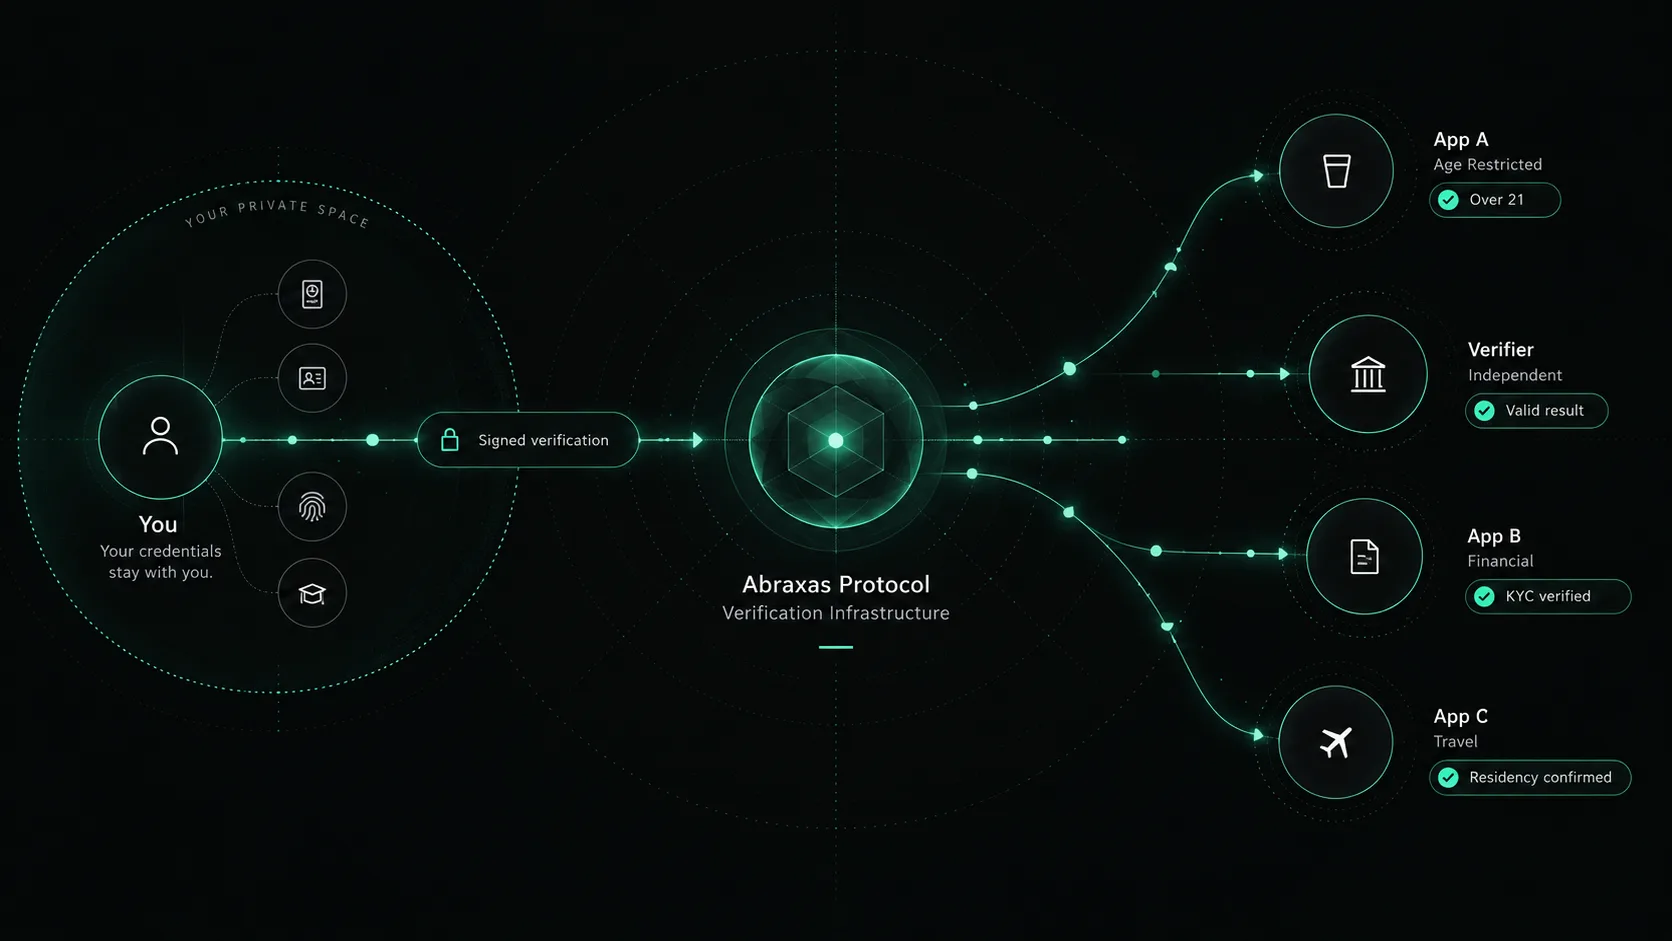
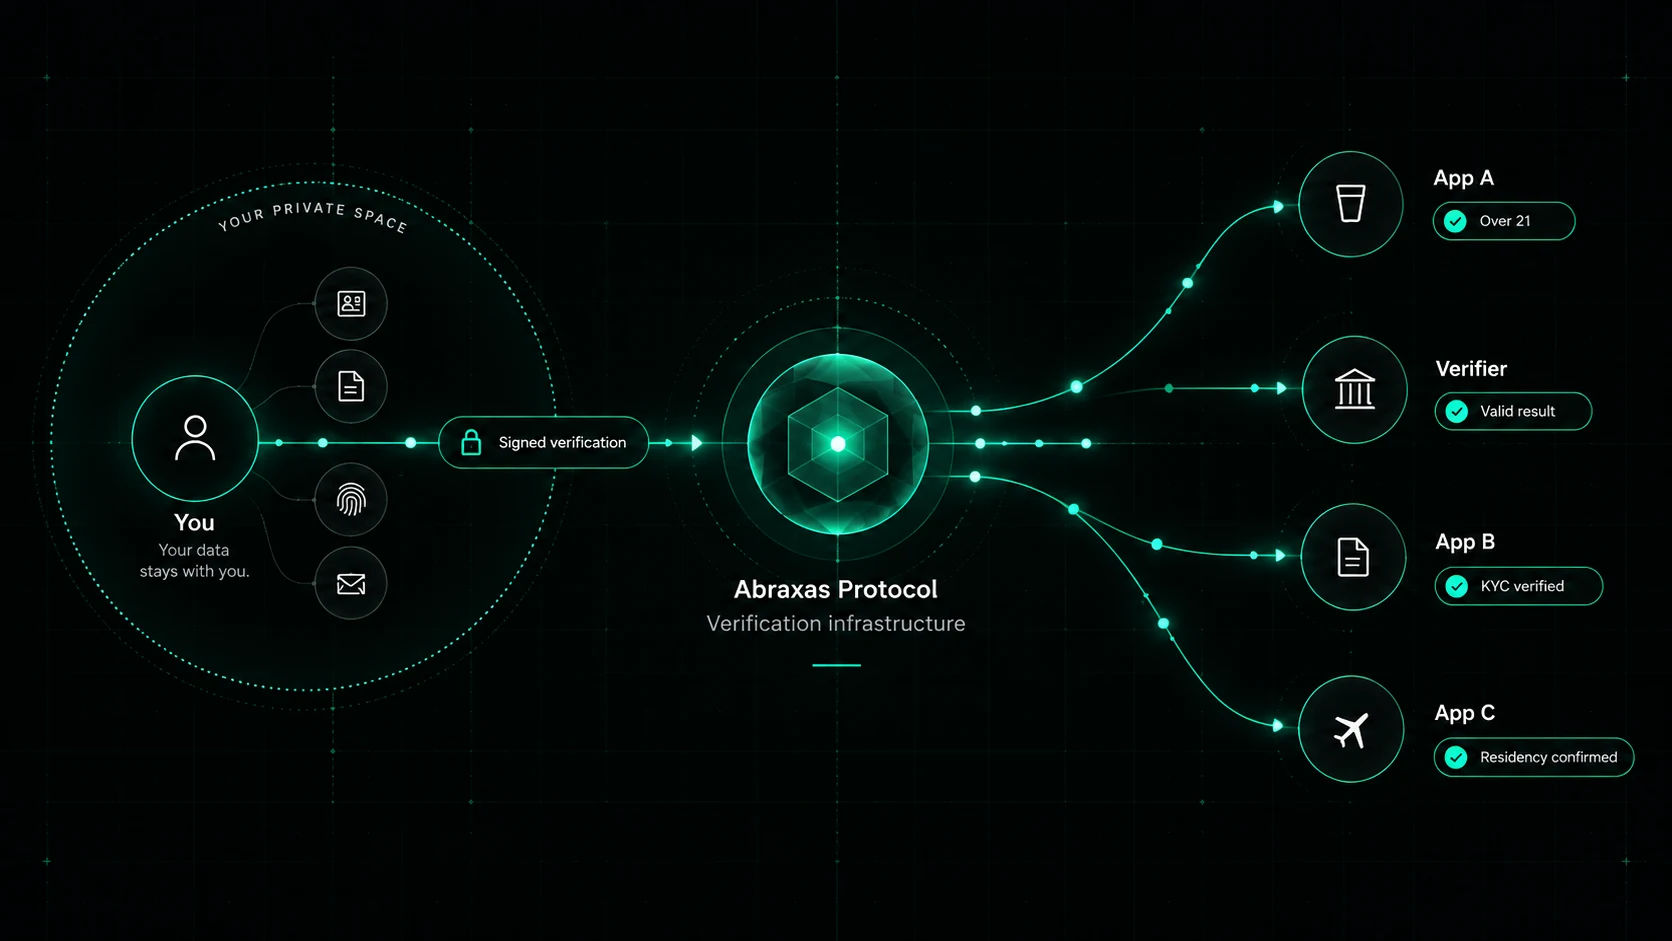
fix(home): deploy premium protocol visuals on homepage preview
Replace stale diagram webps with approved reference art, wire lifecycle
exhibit to reference asset with interactive stage stepper, eager-load homepage
sections, and remove deferred dynamic imports that hid visuals on preview.

diff --git a/components/protocol-visuals/VerificationLifecycleTrustBoundary.tsx b/components/protocol-visuals/VerificationLifecycleTrustBoundary.tsx
@@ -3,6 +3,8 @@
 import { useCallback, useState, type CSSProperties } from "react";
 import { useReducedMotion } from "framer-motion";
 import { CINEMATIC_VPR_SIM_LABEL } from "@/lib/home/cinematicHomeCopy";
+import { HOMEPAGE_PROTOCOL_VISUAL_ASSETS } from "@/lib/home/homepageProtocolVisualAssets";
+import { ProtocolDiagramFigure } from "./ProtocolDiagramFigure";
 
 type StageId = "provide" | "evaluate" | "decision" | "verify";
 
@@ -48,23 +50,6 @@ const STAGES: {
   },
 ];
 
-const EVIDENCE = [
-  "Identity data",
-  "Credentials",
-  "Records",
-  "Biometrics",
-  "Device signals",
-  "Additional evidence",
-] as const;
-
-const BOUNDARY_STEPS = [
-  { title: "Evidence processing", detail: "Normalize · validate · keep private" },
-  { title: "Policy evaluation", detail: "Apply rules · check eligibility" },
-  { title: "Sign decision", detail: "Scope to policy · cryptographic proof" },
-] as const;
-
-const RELIERS = ["Applications", "Services", "Partners", "Third parties"] as const;
-
 function stageProgress(id: StageId): number {
   const order: StageId[] = ["provide", "evaluate", "decision", "verify"];
   return (order.indexOf(id) + 1) / order.length;
@@ -77,13 +62,8 @@ export function VerificationLifecycleTrustBoundary() {
   const progress = stageProgress(stage);
   const select = useCallback((id: StageId) => setStage(id), []);
 
-  const showBoundary = stage === "evaluate" || stage === "decision" || stage === "verify";
-  const showReceipt = stage === "decision" || stage === "verify";
-  const showReliers = stage === "verify";
-  const evidenceInside = stage !== "verify";
-
   return (
-    <div id="how-abraxas-works" className="abx-vltb">
+    <div id="verification-lifecycle-trust-boundary" className="abx-vltb">
       <p className="abx-v2-eyebrow">Verification lifecycle</p>
       <h2 id="home-lifecycle-heading" className="abx-v2-section-title abx-vltb__title">
         Information <span className="abx-vltb__accent">narrows</span> at each boundary
@@ -115,92 +95,24 @@ export function VerificationLifecycleTrustBoundary() {
       </div>
 
       <div
-        className="abx-vltb__canvas"
-        aria-hidden={false}
+        className="abx-vltb__canvas abx-vltb__canvas--reference"
         style={
           reduceMotion
             ? undefined
             : ({ ["--vltb-progress" as string]: String(progress) } as CSSProperties)
         }
       >
-        <div className="abx-vltb__grid" aria-hidden="true" />
-        <div className="abx-vltb__flow-track">
+        <div className="abx-vltb__flow-track" aria-hidden="true">
           <span className="abx-vltb__flow-fill" />
         </div>
-
-        <div className="abx-vltb__columns">
-          <div className={`abx-vltb__col abx-vltb__col--evidence${evidenceInside ? "" : " abx-vltb__col--muted"}`}>
-            <p className="abx-vltb__col-kicker">Private evidence</p>
-            <ul className="abx-vltb__evidence-list">
-              {EVIDENCE.map((label) => (
-                <li key={label} className="abx-vltb__evidence-item">
-                  <span className="abx-vltb__evidence-dot" aria-hidden="true" />
-                  <span>{label}</span>
-                </li>
-              ))}
-            </ul>
-            <p className="abx-vltb__boundary-note">
-              {evidenceInside ? "Inside protected domain" : "Not shared with relying parties"}
-            </p>
-          </div>
-
-          <div className={`abx-vltb__boundary${showBoundary ? " abx-vltb__boundary--on" : ""}`}>
-            <p className="abx-vltb__boundary-title">
-              <span className="abx-vltb__lock" aria-hidden="true">
-                ◆
-              </span>
-              Abraxas verification boundary
-            </p>
-            <ul className="abx-vltb__boundary-steps">
-              {BOUNDARY_STEPS.map((step, i) => {
-                const lit = stage === "evaluate" || (stage === "decision" && i <= 2) || stage === "verify";
-                return (
-                  <li
-                    key={step.title}
-                    className={`abx-vltb__boundary-step${lit ? " abx-vltb__boundary-step--lit" : ""}`}
-                  >
-                    <strong>{step.title}</strong>
-                    <span>{step.detail}</span>
-                  </li>
-                );
-              })}
-            </ul>
-            <p className="abx-vltb__boundary-footer">Private data does not leave the boundary</p>
-          </div>
-
-          <div className={`abx-vltb__col abx-vltb__col--output${showReceipt ? "" : " abx-vltb__col--muted"}`}>
-            <p className="abx-vltb__col-kicker">Scoped signed decision</p>
-            <div className="abx-vltb__receipt">
-              <p className="abx-vltb__receipt-title">Verification receipt</p>
-              <ul className="abx-vltb__receipt-lines">
-                <li>
-                  <span>Result</span>
-                  <code>{showReceipt ? "ALLOW" : "—"}</code>
-                </li>
-                <li>
-                  <span>Policy</span>
-                  <code>{showReceipt ? "age_over_18" : "—"}</code>
-                </li>
-                <li>
-                  <span>Issuer</span>
-                  <code>{showReceipt ? "Abraxas" : "—"}</code>
-                </li>
-              </ul>
-            </div>
-            {showReliers ? (
-              <ul className="abx-vltb__reliers">
-                {RELIERS.map((name) => (
-                  <li key={name}>
-                    <strong>{name}</strong>
-                    <span>Verify independently</span>
-                  </li>
-                ))}
-              </ul>
-            ) : (
-              <p className="abx-vltb__receipt-hint">Permitted decision only — no raw evidence</p>
-            )}
-          </div>
-        </div>
+        <div className={`abx-vltb__stage-glow abx-vltb__stage-glow--${stage}`} aria-hidden="true" />
+        <ProtocolDiagramFigure
+          src={HOMEPAGE_PROTOCOL_VISUAL_ASSETS.verificationLifecycle}
+          alt="Private evidence flows through the Abraxas verification boundary into a scoped signed decision that relying parties verify independently."
+          width={1920}
+          height={1080}
+          decorative
+        />
       </div>
 
       <div

diff --git a/components/redesign/RedesignHome.tsx b/components/redesign/RedesignHome.tsx
@@ -7,6 +7,8 @@ import { InstitutionalHomeClose } from "@/components/institutional/Institutional
 import type { ReactNode } from "react";
 import { HomeFlagshipProtocolVisuals } from "@/components/home/HomeFlagshipProtocolVisuals";
 import { HomeApplicationsReceiveSection } from "@/components/home/HomeApplicationsReceiveSection";
+import { HomeVerificationLifecycle } from "@/components/home/premium/HomeVerificationLifecycle";
+import { HomeVerifiableTrustChapter } from "@/components/home/HomeVerifiableTrustChapter";
 import { LazyHomeSection } from "@/components/home/LazyHomeSection";
 import { PremiumHomeChapter } from "@/components/home/premium/PremiumHomeChapter";
 import { ABX_SPACING, abxAccentCssVars } from "@/lib/design/abraxasDesignSystem";
@@ -16,19 +18,9 @@ import { CINEMATIC_BUILD_CHAPTER_EYEBROW } from "@/lib/home/cinematicHomeCopy";
 import { RedesignNav } from "./RedesignNav";
 import { RedesignFooter } from "./RedesignFooter";
 
-const HomeVerificationLifecycle = dynamic(
-  () => import("@/components/home/premium/HomeVerificationLifecycle").then((m) => m.HomeVerificationLifecycle),
-  { ssr: false, loading: () => <div className="abx-lazy-home-section" style={{ minHeight: "16rem" }} aria-hidden /> },
-);
-
 const HomeGoodTroubleActionSection = dynamic(
   () => import("@/components/home/HomeGoodTroubleActionSection").then((m) => m.HomeGoodTroubleActionSection),
   { ssr: false, loading: () => <div className="abx-lazy-home-section" style={{ minHeight: "8rem" }} aria-hidden /> },
-);
-
-const HomeVerifiableTrustChapter = dynamic(
-  () => import("@/components/home/HomeVerifiableTrustChapter").then((m) => m.HomeVerifiableTrustChapter),
-  { ssr: false, loading: () => <div className="abx-lazy-home-section" style={{ minHeight: "20rem" }} aria-hidden /> },
 );
 
 const CapabilityMatrix = dynamic(
@@ -55,13 +47,13 @@ function HomeContent({ hero }: { hero: ReactNode }) {
         </PremiumHomeChapter>
 
         <PremiumHomeChapter index="02" label="Authorization" id="chapter-authorization" bleed>
-          <LazyHomeSection minHeight="12rem">
+          <LazyHomeSection minHeight="12rem" eager>
             <HomeApplicationsReceiveSection />
           </LazyHomeSection>
         </PremiumHomeChapter>
 
         <PremiumHomeChapter index="03" label="Lifecycle" id="chapter-lifecycle">
-          <LazyHomeSection minHeight="18rem">
+          <LazyHomeSection minHeight="18rem" eager>
             <HomeVerificationLifecycle />
           </LazyHomeSection>
         </PremiumHomeChapter>

diff --git a/components/protocol-visuals/ProtocolDataFlowVisual.tsx b/components/protocol-visuals/ProtocolDataFlowVisual.tsx
@@ -1,3 +1,4 @@
+import { HOMEPAGE_PROTOCOL_VISUAL_ASSETS } from "@/lib/home/homepageProtocolVisualAssets";
 import { ProtocolDiagramFigure } from "./ProtocolDiagramFigure";
 import { ProtocolVisualShell } from "./ProtocolVisualShell";
 
@@ -5,14 +6,18 @@ export function ProtocolDataFlowVisual() {
   return (
     <ProtocolVisualShell
       id="how-abraxas-works"
-      title="How Abraxas Works"
-      className="abx-pv-shell--exhibit"
+      kicker="01 System"
+      title="Secure verification"
+      titleAccent="flow"
+      caption="Private evidence stays in your boundary. Abraxas returns scoped signed results — not raw identity fields."
+      className="abx-pv-shell--exhibit abx-pv-shell--open"
     >
       <ProtocolDiagramFigure
-        src="/protocol-visuals/abraxas-protocol-data-flow.webp"
+        src={HOMEPAGE_PROTOCOL_VISUAL_ASSETS.secureVerificationFlow}
         alt="Private credentials stay with you while Abraxas returns signed verification results to applications."
         width={1920}
         height={1080}
+        priority
         decorative
       />
     </ProtocolVisualShell>

diff --git a/app/globals.protocol-visuals.css b/app/globals.protocol-visuals.css
@@ -504,6 +504,59 @@
   overflow: hidden;
 }
 
+.abx-vltb__canvas--reference {
+  padding: 0;
+}
+
+.abx-vltb__canvas--reference .abx-pv-diagram {
+  margin: 0;
+}
+
+.abx-vltb__canvas--reference .abx-vltb__flow-track {
+  position: absolute;
+  top: 0.65rem;
+  left: clamp(0.85rem, 2vw, 1.15rem);
+  right: clamp(0.85rem, 2vw, 1.15rem);
+  z-index: 2;
+  margin: 0;
+}
+
+.abx-vltb__stage-glow {
+  pointer-events: none;
+  position: absolute;
+  inset: 0;
+  z-index: 1;
+  opacity: 0.35;
+  transition: opacity 0.35s ease;
+  background: radial-gradient(
+    circle at var(--vltb-glow-x, 50%) 42%,
+    rgba(76, 187, 146, 0.22),
+    transparent 58%
+  );
+}
+
+.abx-vltb__stage-glow--provide {
+  --vltb-glow-x: 18%;
+}
+
+.abx-vltb__stage-glow--evaluate {
+  --vltb-glow-x: 42%;
+}
+
+.abx-vltb__stage-glow--decision {
+  --vltb-glow-x: 62%;
+}
+
+.abx-vltb__stage-glow--verify {
+  --vltb-glow-x: 82%;
+}
+
+@media (prefers-reduced-motion: reduce) {
+  .abx-vltb__stage-glow {
+    transition: none;
+  }
+}
+
 .abx-vltb__grid {
   pointer-events: none;
   position: absolute;

diff --git a/components/protocol-visuals/PolicyAuthorizationFlowVisual.tsx b/components/protocol-visuals/PolicyAuthorizationFlowVisual.tsx
@@ -1,15 +1,19 @@
+import { HOMEPAGE_PROTOCOL_VISUAL_ASSETS } from "@/lib/home/homepageProtocolVisualAssets";
 import { ProtocolDiagramFigure } from "./ProtocolDiagramFigure";
 import { ProtocolVisualShell } from "./ProtocolVisualShell";
 
 export function PolicyAuthorizationFlowVisual() {
   return (
     <ProtocolVisualShell
-      id="what-applications-receive"
-      title="What Applications Receive"
+      id="private-data-consent-flow"
+      kicker="02 Authorization"
+      title="Private data &"
+      titleAccent="consent flow"
+      caption="Consent, policy evaluation, and signed receipt — only scoped output crosses your private boundary."
       className="abx-pv-shell--exhibit abx-pv-shell--open"
     >
       <ProtocolDiagramFigure
-        src="/protocol-visuals/policy-authorization-flow.webp"
+        src={HOMEPAGE_PROTOCOL_VISUAL_ASSETS.privateDataConsentFlow}
         alt="Consent, policy evaluation, signed receipt, and application decision without sharing raw identity documents."
         width={1920}
         height={1080}

diff --git a/lib/home/homepageProtocolVisualAssets.test.ts b/lib/home/homepageProtocolVisualAssets.test.ts
@@ -1,0 +1,15 @@
+import { existsSync } from "node:fs";
+import { resolve } from "node:path";
+import { describe, expect, it } from "vitest";
+import { HOMEPAGE_PROTOCOL_VISUAL_ASSETS } from "./homepageProtocolVisualAssets";
+
+const ROOT = resolve(__dirname, "../..");
+
+describe("homepage protocol visual assets", () => {
+  it("ships optimized webp for each homepage exhibit", () => {
+    for (const rel of Object.values(HOMEPAGE_PROTOCOL_VISUAL_ASSETS)) {
+      const path = resolve(ROOT, "public", rel.replace(/^\//, ""));
+      expect(existsSync(path), `missing ${rel}`).toBe(true);
+    }
+  });
+});

diff --git a/lib/home/homepageProtocolVisualAssets.ts b/lib/home/homepageProtocolVisualAssets.ts
@@ -1,0 +1,9 @@
+// Canonical homepage protocol diagram assets (one exhibit per file — never stacked).
+
+export const HOMEPAGE_PROTOCOL_VISUAL_ASSETS = {
+  secureVerificationFlow: "/protocol-visuals/abraxas-protocol-data-flow.webp",
+  privateDataConsentFlow: "/protocol-visuals/policy-authorization-flow.webp",
+  verificationLifecycle: "/protocol-visuals/verification-lifecycle-trust-boundary.webp",
+  /** Reference art only — interactive receipt demo is authoritative on homepage. */
+  decisionReceiptReference: "/protocol-visuals/decision-receipt-inspection.webp",
+} as const;
